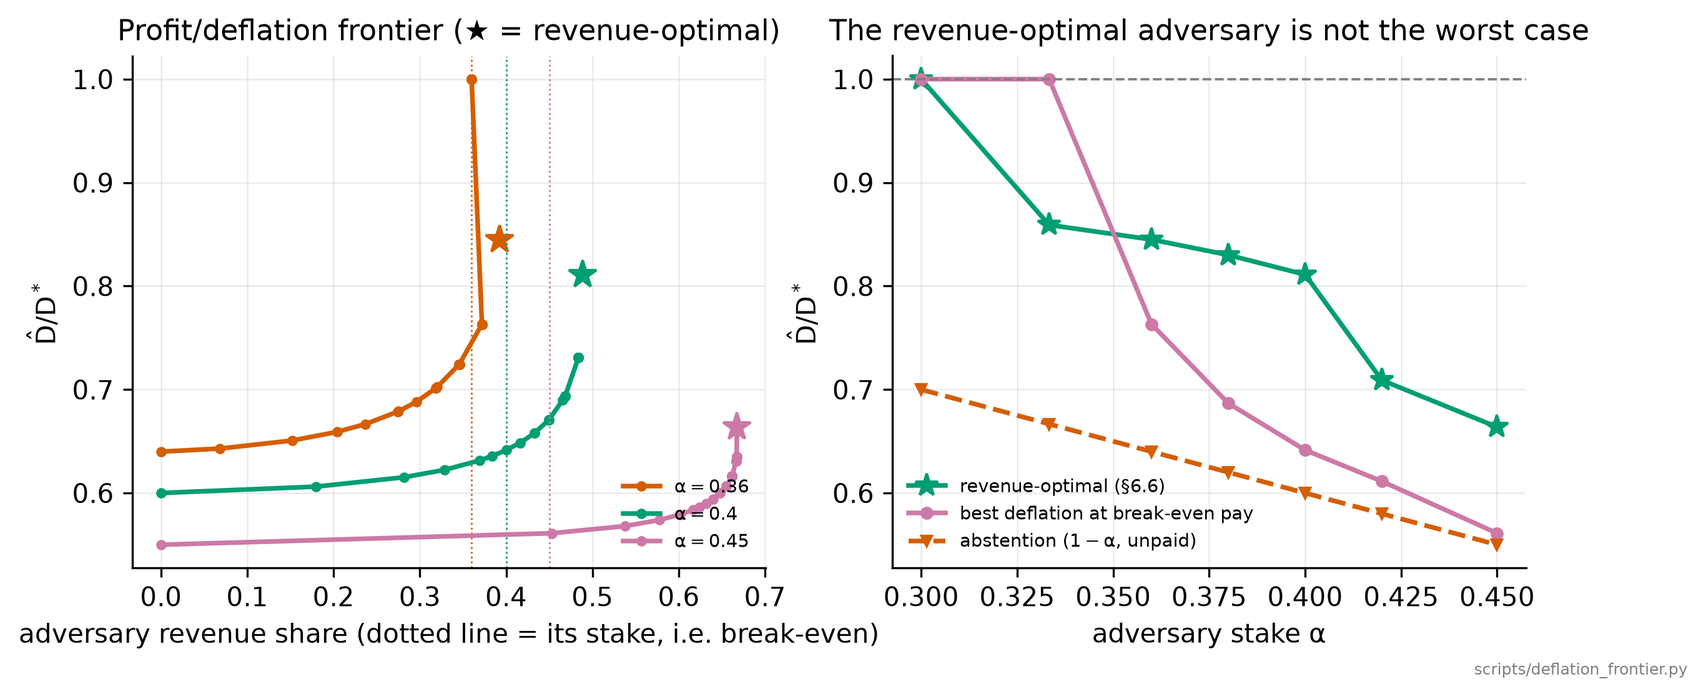
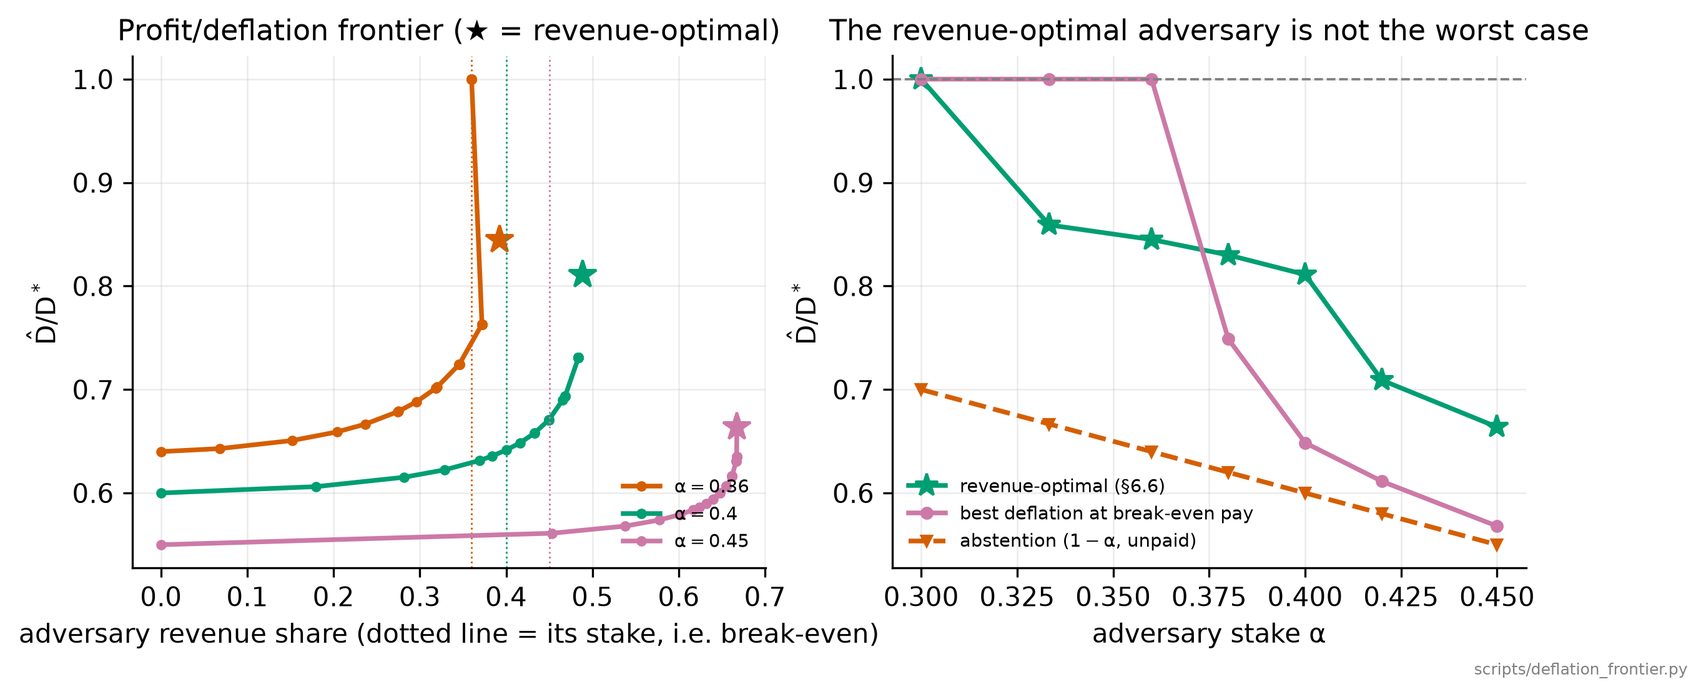
Score the deflation frontier on absolute pay, not revenue share
Verification of my own item-16 result, which I had flagged as resting on a
step I had not checked: "break-even" was measured as revenue SHARE >= stake
share, and share-to-pay equivalence rests on sec 6.6's issuance argument. It
does not hold as stated.

A revenue share is measured against the canonical block rate, but pay is set by
the estimator. TSI drives COUNTED density -- canonical plus recovered uncles --
to f per slot, so a run yields f/D-hat block-finding events per slot and a
deflating attack makes the lottery easier for everyone. Pay per slot is
adv_rate * f / D-hat against an honest miner's alpha * f, so the correction on
the share ratio is density/D-hat, which is below 1 whenever any uncle is
recovered. Scoring on share credits the attacker with pay it never receives.

The headline survives; one row does not. At alpha = 0.4 the true break-even
point deflates to 0.649 rather than 0.642 (against the revenue-optimal 0.811),
so 16 points of free deflation instead of 17. But at alpha = 0.36 the policy I
reported as paying 1.033x stake actually pays 0.95x, and NO policy in the sweep
both pays and deflates there -- that row is withdrawn. The exposure therefore
opens near alpha ~ 0.37-0.38, above the 1/3 selfish threshold, not at it. That
is a better result for the protocol than the one I published yesterday, which
is the direction these corrections usually do not go.

pay_vs_honest is now computed in deflation_frontier() and is the criterion
[…]

diff --git a/tools/simulators/tsi/tsi-sim-pernode/scripts/deflation_frontier.py b/tools/simulators/tsi/tsi-sim-pernode/scripts/deflation_frontier.py
@@ -68,10 +68,18 @@ def sweep() -> pd.DataFrame:
 
 
 def best_profitable(df: pd.DataFrame) -> pd.DataFrame:
-    """Per alpha, the frontier point minimising D_hat among those paying at least stake share."""
+    """Per alpha, the frontier point minimising D_hat among those that actually pay.
+
+    "Pays" means ABSOLUTE reward per unit time at least matching honest mining
+    (``pay_vs_honest >= 1``), not merely a revenue *share* at least matching stake. The two
+    differ by ``density / dhat``: the share's denominator is the canonical block rate, but the
+    pay rate is set by the estimator, which holds counted density at ``f`` per slot. Using the
+    share alone credits the attacker with pay it does not receive — at alpha = 0.36 it marks
+    points as break-even that are ~5 % short.
+    """
     out = []
     for _a, g in df.groupby("alpha"):
-        paid = g[g.reward_per_stake >= 1.0 - 1e-9]
+        paid = g[g.pay_vs_honest >= 1.0 - 1e-9]
         if paid.empty:
             continue
         out.append(paid.loc[paid.dhat_countable.idxmin()])
@@ -81,18 +89,20 @@ def best_profitable(df: pd.DataFrame) -> pd.DataFrame:
 def report(df: pd.DataFrame) -> None:
     best = best_profitable(df)
     print(f"{'alpha':>6} {'rev-opt rev':>12} {'rev-opt D':>10} | "
-          f"{'best paid rev':>14} {'xstake':>7} {'D':>7} {'extra deflation':>16}")
+          f"{'best paid rev':>14} {'pay/hon':>8} {'D':>7} {'extra deflation':>16}")
     for a, g in df.groupby("alpha"):
         ro_r, ro_d = g.revenue_optimal.iloc[0], g.dhat_revenue_optimal.iloc[0]
         b = best[best.alpha == a]
         if b.empty:
-            print(f"{a:6.3f} {ro_r:12.4f} {ro_d:10.4f} |  (nothing profitable deflates)")
+            print(f"{a:6.3f} {ro_r:12.4f} {ro_d:10.4f} |  (no policy in the sweep both pays "
+                  f"and deflates)")
             continue
         b = b.iloc[0]
         print(f"{a:6.3f} {ro_r:12.4f} {ro_d:10.4f} | {b.revenue:14.4f} "
-              f"{b.reward_per_stake:7.3f} {b.dhat_countable:7.4f} {ro_d - b.dhat_countable:+16.4f}")
-    print("\n(extra deflation > 0 means the profitable-but-deflating policy beats the "
-          "revenue-optimal one at damaging the estimate, at no cost versus honest mining)")
+              f"{b.pay_vs_honest:8.3f} {b.dhat_countable:7.4f} {ro_d - b.dhat_countable:+16.4f}")
+    print("\n(extra deflation > 0 means the paying-but-deflating policy beats the revenue-optimal "
+          "one at damaging the estimate, at no cost versus honest mining; 'pay/hon' is ABSOLUTE "
+          "reward per unit time, not revenue share)")
 
 
 def fig37(df: pd.DataFrame) -> None:

diff --git a/tools/simulators/tsi/tsi-sim-pernode/src/tsi_sim/selfish_mdp.py b/tools/simulators/tsi/tsi-sim-pernode/src/tsi_sim/selfish_mdp.py
@@ -364,12 +364,24 @@ def deflation_frontier(alpha: float, gamma: float, lam: float, p_ref: float = 1.
     canonical = rates["adv_rate"] + rates["hon_rate"]
     blocks, runs = rates["orphan_hon_blocks"], rates["orphan_hon_runs"]
     revenue = (rates["adv_rate"] / canonical) if canonical > 0 else 0.0
+    dhat = canonical + float(p_ref) * runs
+
+    # Absolute pay, not just share. Revenue *share* understates what an attack costs the attacker,
+    # because the share's denominator is the canonical rate while the pay rate is set by the
+    # ESTIMATOR: TSI drives counted density (canonical + recovered uncles) to `f` per slot, so a
+    # run yields `f / dhat` block-finding events per slot and a deflating attack makes the lottery
+    # easier. Pay per slot is therefore `adv_rate · f / dhat` against an honest miner's `alpha · f`,
+    # so the correction on the share ratio is `density / dhat` — below 1 whenever uncles are
+    # recovered. (Events vs occupied slots differ by the multi-winner factor c(f) ~ 1.017 at
+    # f = 1/30, §2.1, which is neglected here and is small against the effect.)
+    pay_vs_honest = (rates["adv_rate"] / (alpha * dhat)) if alpha and dhat > 0 else 0.0
     return dict(
         alpha=alpha, gamma=gamma, lam=lam,
         revenue=revenue,
         reward_per_stake=(revenue / alpha) if alpha else 0.0,
+        pay_vs_honest=pay_vs_honest,
         density_fraction=canonical,
-        dhat_countable=canonical + float(p_ref) * runs,
+        dhat_countable=dhat,
         dhat_unrestricted=canonical + float(p_ref) * blocks,
         eta=(runs / blocks) if blocks > 0 else 1.0,
         orphan_hon_blocks=blocks,

diff --git a/reports/tsi/README.md b/reports/tsi/README.md
@@ -72,7 +72,7 @@
 1. **All nodes always agree.** In every run, at every network size and block rate tested (1 000–10 000 nodes at the production security parameter; to 32 000 in the size-scaling study, [§3.7](#s3-7); blocks every 10–30 s), all nodes computed *exactly* the same estimate — even though they constantly disagree about the newest blocks. The reason is structural: TSI measures a window buried deep in the finalized past, where every honest node sees identical history ([§3.1](#s3-1)). Two caveats keep this honest: agreement is not accuracy — nodes can unanimously agree on a wrong value (see next point) — and agreement is inherited from the common genesis value, not rebuilt: TSI maintains agreement but cannot repair a divergence that somehow arose ([Appendix C](#sC)).
 2. **Network delay makes the estimate too low; uncle references fix it.** When blocks race, the losers ("orphans") drop off the chain and out of the count, so the network under-counts its own stake — by roughly a quarter to a third under Blend (the mix-network transport) delays, deepening with network size. The error is strictly one-sided: the equilibrium estimate is **bounded above by the true stake** — `D̂/D` cannot exceed 1 (no tested cell sits above 1 beyond sampling noise, which is why the accuracy plots are capped at 1; [§2.2](#s2-2)), so delay can only deflate the estimate, never inflate it. Letting each block also reference recent orphans ("uncles") puts them back into the count — counting *slots*, so a slot with two winners still counts once — and a single uncle reference per block restores the estimate to **exactly the true stake** (the recommended cap adds a one-uncle margin, [§8](#s8)) (the only residual is an optional ~1 % from on-chain rounding of the target rate, [§2.2](#s2-2)/[Appendix A](#sA)) ([§3.2](#s3-2)).
 3. **Two sizing rules cover the deployments tested.** How many uncle slots a block needs (`U`) is dictated by the **load** — the number of blocks the whole network produces during the time one block needs to reach everyone (written `ρ`; formally `ρ = f·D_vis`, [§3.3](#s3-3)). The load counts the concurrent blocks each new block must be able to reference, and one uncle slot drains one of them per block — so `U` must be at least the load rounded up, plus one spare. How far back a block may reach for an orphan (`W`) is dictated by block spacing, not delay: about ten block intervals. The formal equations, their calibration, and worked examples are in [§4](#s4).
-4. **Cheating doesn't pay.** Hiding blocks to deflate the estimate costs the attacker more than anyone else, heals within one epoch, and — for a full withdrawal — the lower estimate is simply the *correct* count of who is still participating ([§6.4](#s6-4)–[§6.5](#s6-5)). The one genuinely profitable attack is classic selfish mining, which needs roughly one-third of all stake and afflicts every Nakamoto-style chain, not TSI specifically; the damage it does to the estimate is *partly* repaired by the same uncle mechanism — about half of it against an optimally-played attack, because the counting rule can reach only the first block of each discarded fork ([§6.6](#s6-6)). One qualification matters for how that threshold is read: it bounds what an attacker *earns*, not what the estimate *loses*. An attacker content to earn its stake share rather than the selfish premium can push the estimate substantially further down at no cost to itself — so above the one-third threshold the estimate is exposed to a wider set of strategies than the profit analysis alone would suggest ([§6.6](#s6-6), `fig37`). Rewarding uncles compensates the honest victims of delay and makes hiding strictly worse — but the reward must remain a bonus (a *soft* rule, never a validity requirement, which an attacker could turn into a tool for censoring or forking the chain), and the uncle + nephew rewards (the nephew reward pays the block that *includes* the reference) must together stay below one block reward, or deliberately orphaning one's own blocks becomes a business ([§6.7](#s6-7)–[§6.8](#s6-8)).
+4. **Cheating doesn't pay.** Hiding blocks to deflate the estimate costs the attacker more than anyone else, heals within one epoch, and — for a full withdrawal — the lower estimate is simply the *correct* count of who is still participating ([§6.4](#s6-4)–[§6.5](#s6-5)). The one genuinely profitable attack is classic selfish mining, which needs roughly one-third of all stake and afflicts every Nakamoto-style chain, not TSI specifically; the damage it does to the estimate is *partly* repaired by the same uncle mechanism — about half of it against an optimally-played attack, because the counting rule can reach only the first block of each discarded fork ([§6.6](#s6-6)). One qualification matters for how that threshold is read: it bounds what an attacker *earns*, not what the estimate *loses*. An attacker content to earn what honest mining would pay it, rather than the selfish premium, can push the estimate substantially further down at no cost to itself — so somewhat above the one-third threshold the estimate is exposed to a wider set of strategies than the profit analysis alone would suggest ([§6.6](#s6-6), `fig37`). Rewarding uncles compensates the honest victims of delay and makes hiding strictly worse — but the reward must remain a bonus (a *soft* rule, never a validity requirement, which an attacker could turn into a tool for censoring or forking the chain), and the uncle + nephew rewards (the nephew reward pays the block that *includes* the reference) must together stay below one block reward, or deliberately orphaning one's own blocks becomes a business ([§6.7](#s6-7)–[§6.8](#s6-8)).
 5. **Reorganisations stay shallow if the load stays low.** Forks are the cost centre: a deep reorg discards confirmed blocks. Fork depth grows with delay, and uncles keep it shallow (without them the deflated estimate over-produces blocks, and honest reorgs reach ~17 deep; with them, ~4). Against a private-chain attacker holding 10–30 % of stake trying to force the deepest reorg, keeping the load below one (few honest forks) keeps reorgs bounded and shallow (single digits to low tens of blocks even at 30 % stake) — but past that, at 30 % stake and heavy delay, fork-induced orphaning tips the attacker over an effective majority and reorgs become unbounded. The same "keep `ρ < 1`" rule that keeps the estimate accurate keeps reorgs shallow ([§6.10](#s6-10)).
 
 *Method note: results come from the per-node simulator at the production security parameter k = 2160, with the robustness and size-scaling studies at a reduced k = 256 where noted; the sizing rules are semi-empirical (their form follows from the fork/orphan mechanism, their constants are fitted to the sweeps) and are derived under honest, deterministic-delay conditions — noise, attacks, and incentives are treated in [§6](#s6).*
@@ -621,15 +621,18 @@ So **SM1 is a faithful proxy for selfish-mining revenue but not for TSI's estima
 
 **The revenue-optimal adversary is not the estimator's worst case (`fig37`).** Every ceiling above comes from an adversary optimising something *other* than the estimate, so they bound `η` from above without bounding the damage from below. Optimising the estimator directly closes that gap — and needs no ratio transform, because each transition consumes exactly one block-finding event, so minimising `D̂/D = (canonical + p_ref·countable uncles)/events` is a plain average-reward MDP over the same transition table.
 
-Asked without constraint the question degenerates, informatively: the optimum is **pure abstention** — publish nothing, adopt when overtaken — landing `D̂` on exactly `1 − α` with zero revenue. That is [§6.4](#s6-4)'s withholding, which is *correct* measurement rather than mis-measurement, since a coalition that publishes nothing genuinely is not participating. So the question that bites is what an adversary can do **while still being paid**. Sweeping the mixed objective `λ·(adversary blocks) − (contribution to D̂)` enumerates candidate policies; the line of interest is where the revenue *share* reaches `α`, i.e. where the attack costs nothing against simply mining honestly (below it, the attack is self-punishing griefing already bounded by [§6.5](#s6-5)):
+Asked without constraint the question degenerates, informatively: the optimum is **pure abstention** — publish nothing, adopt when overtaken — landing `D̂` on exactly `1 − α` with zero revenue. That is [§6.4](#s6-4)'s withholding, which is *correct* measurement rather than mis-measurement, since a coalition that publishes nothing genuinely is not participating. So the question that bites is what an adversary can do **while still being paid**. Sweeping the mixed objective `λ·(adversary blocks) − (contribution to D̂)` enumerates candidate policies; the line of interest is where the attacker's **absolute reward per unit time** matches honest mining, so that the attack costs it nothing (below that line it is self-punishing griefing, already bounded by [§6.5](#s6-5)).
 
-| `α` | revenue-optimal: share / `D̂` | best break-even-paid: share / `D̂` | extra deflation |
+*Pay, not share.* The two differ, and not negligibly. A revenue *share* is measured against the canonical block rate, but what an attacker is actually paid is set by the estimator: TSI drives the **counted** density — canonical blocks plus recovered uncles — to `f` per slot, so a run yields `f/D̂` block-finding events per slot and a deflating attack makes the lottery easier for everyone. Pay per slot is therefore `adv_rate·f/D̂` against an honest miner's `α·f`, and the correction on the share ratio is `density/D̂`, below 1 whenever any uncle is recovered. Scoring the frontier on share alone credits the attacker with pay it never receives.
+
+| `α` | revenue-optimal `D̂` | best *paying* policy: pay / `D̂` | extra deflation |
 |---|---|---|---|
-| 0.36 | 0.392 / 0.845 | 0.372 / **0.763** | 0.082 |
-| 0.40 | 0.489 / 0.811 | 0.400 / **0.642** | 0.170 |
-| 0.45 | 0.667 / 0.664 | 0.453 / **0.561** | 0.103 |
+| 0.36 | 0.845 | — nothing in the sweep both pays and deflates | — |
+| 0.38 | 0.830 | 1.02× / **0.749** | 0.081 |
+| 0.40 | 0.811 | 1.00× / **0.649** | 0.163 |
+| 0.45 | 0.664 | 1.18× / **0.568** | 0.096 |
 
-At `α` = 0.4 an adversary content to earn exactly its stake share — no worse than honest mining — drives the estimate to **0.64** where the revenue-maximiser reaches only 0.81. The 17 points are bought with the selfish premium alone, which is a price an attacker whose goal is the estimator will happily pay. Below the `⅓` threshold nothing profitable deflates at all, so the exposure begins exactly where selfish mining does. (The sweep parameter is deliberately not monotone in revenue: selfish mining takes a larger share of a *smaller* pie, so raw block rate is maximised by honesty and large `λ` returns there. It enumerates policies; it is not a path.)
+At `α` = 0.4 an adversary earning exactly what honest mining would pay it drives the estimate to **0.65**, where the revenue-maximiser reaches only 0.81. Those 16 points are bought with the selfish premium alone — a price an attacker whose goal is the estimator will happily pay. The exposure does *not* open at the `⅓` selfish threshold, though: at `α` = 0.36 no policy in the sweep both pays and deflates, so it begins nearer 0.37–0.38, above the point where selfish mining itself turns profitable. (The sweep parameter is deliberately not monotone in revenue: selfish mining takes a larger share of a *smaller* pie, so raw block rate is maximised by honesty and large `λ` returns there — it enumerates policies, it is not a path. The pay conversion neglects the multi-winner factor `c(f) ≈ 1.017` between events and occupied slots ([§2.1](#s2-1)), small against a 16-point effect.)
 
 ![Fig 37 — the profit/deflation frontier: adversaries that give up the selfish premium deflate the estimate substantially further (left, ★ = revenue-optimal), so the revenue-optimal ceiling is not the worst case and the break-even-paid curve sits far below it, approaching the unpaid abstention bound (right).](report-figures/fig37_deflation_frontier.png)
 
@@ -849,7 +852,7 @@ Everything below is assembled from this report's own measurements; each row cite
 
 **Why soft, not hard, inclusion.** "Owed" cannot be proven — no node can prove which forks a producer saw. An objective slot-gap encoding lets an attacker withhold-then-late-release an uncle to retroactively invalidate honest blocks (censorship); a visibility encoding is subjective and forks consensus with no adversary at all ([§6.8](#s6-8)). The soft rule concedes only a small residual (quantified in [§8.3](#s8-3) item 3): a bounded near-threshold backfire that vanishes as the emergent `p_ref` rises, and a per-α premium that stays ≤ +0.014 even at full inclusion.
 
-**What TSI defends, and what it measures.** Abstention-style withholding is strictly unprofitable (reward/stake 0.95 → 0.31 for duty 0.10 → 0.75 at β_adv = 0.3), bounded as griefing (deflation = β_adv·ψ), non-persistent, and does not stack across coalitions ([§6.5](#s6-5), [§6.9](#s6-9)) — and a full withdrawal is *correctly measured*, not mis-measured: `D̂ → (1−β_adv)` is the right answer for the participating stake ([§6.4](#s6-4)). The one profitable lever is classic selfish mining above `(1−γ)/(3−2γ)` — a general Nakamoto-PoS result, not TSI-specific; TSI's added exposure (estimator deflation to 0.70 at α = 0.4) is *partly* repaired by uncle-counting (row 9 — to 0.81, not the 0.94 an unrestricted count would reach, because the deployed rule can reference only the first block of each discarded fork), and the profit premium is blunted, not eliminated, by the soft-rewarded references (row 10). The *profit* frontier is exactly optimal selfish mining, and no compounding lever raises it ([§6.7](#s6-7)) — but the *estimator* frontier is not the same policy: an adversary willing to settle for break-even pay deflates `D̂` to 0.64 at α = 0.4 where the revenue-maximiser reaches 0.81 ([§6.6](#s6-6), `fig37`). Profitability bounds what an attacker gains, not what the estimate loses.
+**What TSI defends, and what it measures.** Abstention-style withholding is strictly unprofitable (reward/stake 0.95 → 0.31 for duty 0.10 → 0.75 at β_adv = 0.3), bounded as griefing (deflation = β_adv·ψ), non-persistent, and does not stack across coalitions ([§6.5](#s6-5), [§6.9](#s6-9)) — and a full withdrawal is *correctly measured*, not mis-measured: `D̂ → (1−β_adv)` is the right answer for the participating stake ([§6.4](#s6-4)). The one profitable lever is classic selfish mining above `(1−γ)/(3−2γ)` — a general Nakamoto-PoS result, not TSI-specific; TSI's added exposure (estimator deflation to 0.70 at α = 0.4) is *partly* repaired by uncle-counting (row 9 — to 0.81, not the 0.94 an unrestricted count would reach, because the deployed rule can reference only the first block of each discarded fork), and the profit premium is blunted, not eliminated, by the soft-rewarded references (row 10). The *profit* frontier is exactly optimal selfish mining, and no compounding lever raises it ([§6.7](#s6-7)) — but the *estimator* frontier is not the same policy: an adversary willing to settle for the pay honest mining would give it deflates `D̂` to 0.65 at α = 0.4, where the revenue-maximiser reaches 0.81 ([§6.6](#s6-6), `fig37`). Profitability bounds what an attacker gains, not what the estimate loses.
 
 <a id="s8-3"></a>
 ### 8.3 Residual risks and open items
@@ -869,7 +872,7 @@ Everything below is assembled from this report's own measurements; each row cite
 13. **Reward payout mechanism unspecified ([§8.5](#s8-5)).** Rows 10–11 give the incentive constraints, not the encoding. Header-count indistinguishability (Blend) and the equal-share, content-independent voucher of the Anonymous Leaders Reward Protocol are the binding constraints on any `w_u`/`w_n` schedule, and reconciling them — including a payout path for a producer whose block is off-chain — is spec work left open here.
 14. **Temporal resolution — `D̂` is stale by design ([§6.11](#s6-11)).** With `β = 1`, `D̂` tracks active stake at a one-epoch (≈ 7.5-day) lag, so it reflects participating stake from ~1–2 weeks ago and updates only weekly; a genuinely *sub-epoch* swing (daily or intra-week churn) falls below the estimator's Nyquist limit and is not tracked as a cycle at all. This is the correct trade for organic churn (row 5), but it bounds how fast TSI can follow real participation changes — flagged, not a defect.
 15. **Correlated latency untested ([§2](#s2)).** Both link distributions draw each link *independently*, so the sweeps probe the latency marginal, not its spatial structure; geographically **correlated** latency (regional clustering that lets co-located nodes fork as a bloc) is not modelled. In the primary Blend regime the per-hop mixing delay dominates the geographic link term, so this is expected to stay second-order — but it is untested.
-16. **The deflation-optimal adversary — measured, and it is worse than the revenue-optimal one ([§6.6](#s6-6), `fig37`).** The ceilings elsewhere come from adversaries optimising revenue or reorg depth, so they bound `η` from above rather than the damage from below. Optimising the estimate directly: unconstrained the optimum is abstention (`D̂ = 1−α`, zero revenue, and [§6.4](#s6-4)-correct measurement rather than a mis-measurement); constrained to earn at least its stake share, it reaches `D̂` = 0.64 at α = 0.4 against the revenue-optimal 0.81. What remains open is the *joint* problem — this frontier is single-coalition and, like everything in [§6.6](#s6-6), assumes `p_ref` is exogenous rather than something the attacker also manipulates (item 10).
+16. **The deflation-optimal adversary — measured, and it is worse than the revenue-optimal one ([§6.6](#s6-6), `fig37`).** The ceilings elsewhere come from adversaries optimising revenue or reorg depth, so they bound `η` from above rather than the damage from below. Optimising the estimate directly: unconstrained the optimum is abstention (`D̂ = 1−α`, zero revenue, and [§6.4](#s6-4)-correct measurement rather than a mis-measurement); constrained to earn at least what honest mining pays (in absolute reward per unit time, not revenue share — the two differ by `density/D̂`), it reaches `D̂` = 0.65 at α = 0.4 against the revenue-optimal 0.81, and the exposure opens near α ≈ 0.37–0.38 rather than at the `⅓` threshold. What remains open is the *joint* problem — this frontier is single-coalition and, like everything in [§6.6](#s6-6), assumes `p_ref` is exogenous rather than something the attacker also manipulates (item 10).
 17. **The `β_adv` axis is a nominal target, not a realised share ([§6.5](#s6-5)).** A random coalition is grown until its stake first reaches `β_adv`, so the last node added overshoots by its own size — under a Pareto tail, potentially a whale. The realised block share at a nominal `β_adv` = 0.1 is 0.137 ± 0.108, and that variance dominates the mean at small `β_adv`. The conclusions here are drawn from monotone trends across the axis and are unaffected, but a reader should not read `β_adv` as an achieved share; a whale coalition (filled largest-first to the target) lands on it precisely and is the cleaner instrument where the exact share matters.
 18. **The collapsed-branch tail is uncharacterised ([§6.2](#s6-2)).** Static withholding reaches the collapsed branch once in 96 runs — one replicate of the concentrated (whale) 50 % coalition at `δ_max` = 8 s — and never at `δ_max` = 4 s. One reproducible event is enough to retire "not an observed dynamical trap" but far too thin to give the event a rate; its frequency against `β_adv`, `ρ` and coalition concentration is unmeasured.
 19. **Structurally uncompensatable orphans ([§6.7](#s6-7)(1), [§6.8](#s6-8)).** The uncle reward refunds `w_u` per *referenced* orphan, but 20–40 % of the honest blocks a private-chain attack destroys are unreferenceable by construction — buried behind the first block of a discarded run. Those producers cannot be compensated at any `w_u`, so the fairness guarantee inherits the first-fork ceiling exactly as the density repair does. No reward schedule fixes this; it is a property of the counting rule. Whether that is acceptable — honest miners bearing an uninsurable loss precisely when attacked — is a protocol-design question this report raises rather than settles.
